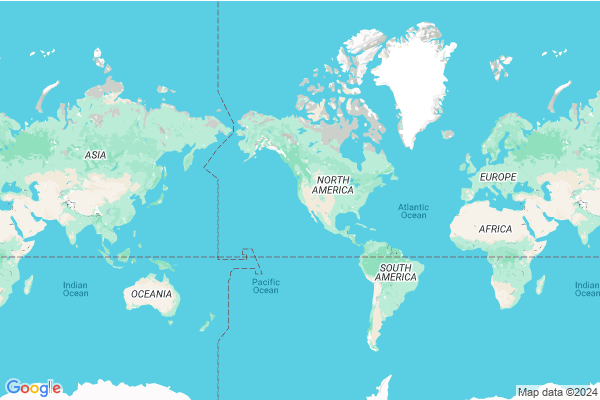
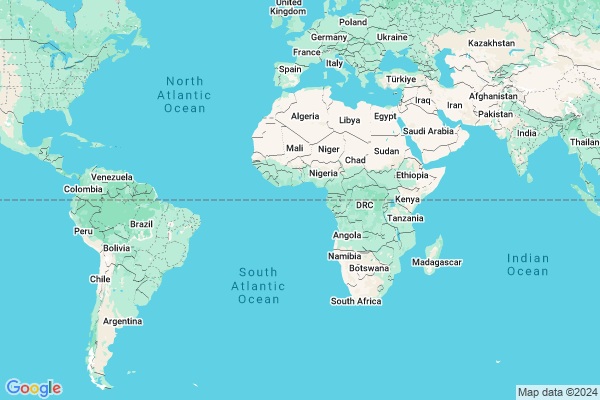
edited StaticMap and created StaticMain

diff --git a/src/main/java/map2d/StaticMap.java b/src/main/java/map2d/StaticMap.java
@@ -13,27 +13,38 @@ import java.nio.file.Files;
 import java.nio.file.Paths;
 
 public class StaticMap {
-    static String API_KEY = System.getenv("API_KEY");
-    static int width = 600;
-    static int height = 400;
+    private final String API_KEY = System.getenv("API_KEY");
+    double latitude; // Example latitude
+    double longitude; // Example longitude
 
-    public static void main(String[] args) {
+
+    public StaticMap() {
+        this.latitude = 0;
+        this.longitude = 0;
+    }
+
+    public StaticMapsRequest getMap() {
         if (API_KEY == null || API_KEY.isEmpty()) {
             System.err.println("API_KEY environment variable is not set.");
             return;
         }
 
-        double latitude = 37.422; // Example latitude
-        double longitude = -122.084; // Example longitude
 
         GeoApiContext context = new GeoApiContext.Builder().apiKey(API_KEY).build();
+        int width = 600;
+        int height = 400;
         Size size = new Size(width, height);
         LatLng location = new LatLng(latitude, longitude);
 
         StaticMapsRequest request = StaticMapsApi.newRequest(context, size)
                 .center(location)
-                .zoom(1)
+                .zoom(2)
                 .maptype(StaticMapType.roadmap);
+
+        return request;
+    }
+
+    public void saveMap(){
 
         try {
             byte[] imageBytes = request.await().imageData;
@@ -47,5 +58,7 @@ public class StaticMap {
         } catch (IOException e) {
             System.err.println("IO Exception: " + e.getMessage());
         }
+
+
     }
 }

diff --git a/src/main/java/map2d/StaticMain.java b/src/main/java/map2d/StaticMain.java
@@ -1,0 +1,8 @@
+package map2d;
+
+public class StaticMain {
+    public static void main(String[] args) {
+        StaticMap map = new StaticMap();
+        map.getMap();
+    }
+}
